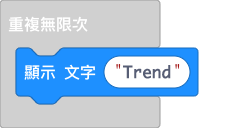
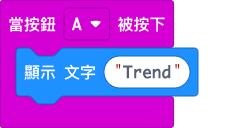
改成按 A 才會顯示文字

diff --git a/main.ts b/main.ts
@@ -1,3 +1,6 @@
-basic.forever(function () {
+input.onButtonPressed(Button.A, function () {
     basic.showString("Trend")
+})
+basic.forever(function () {
+	
 })
